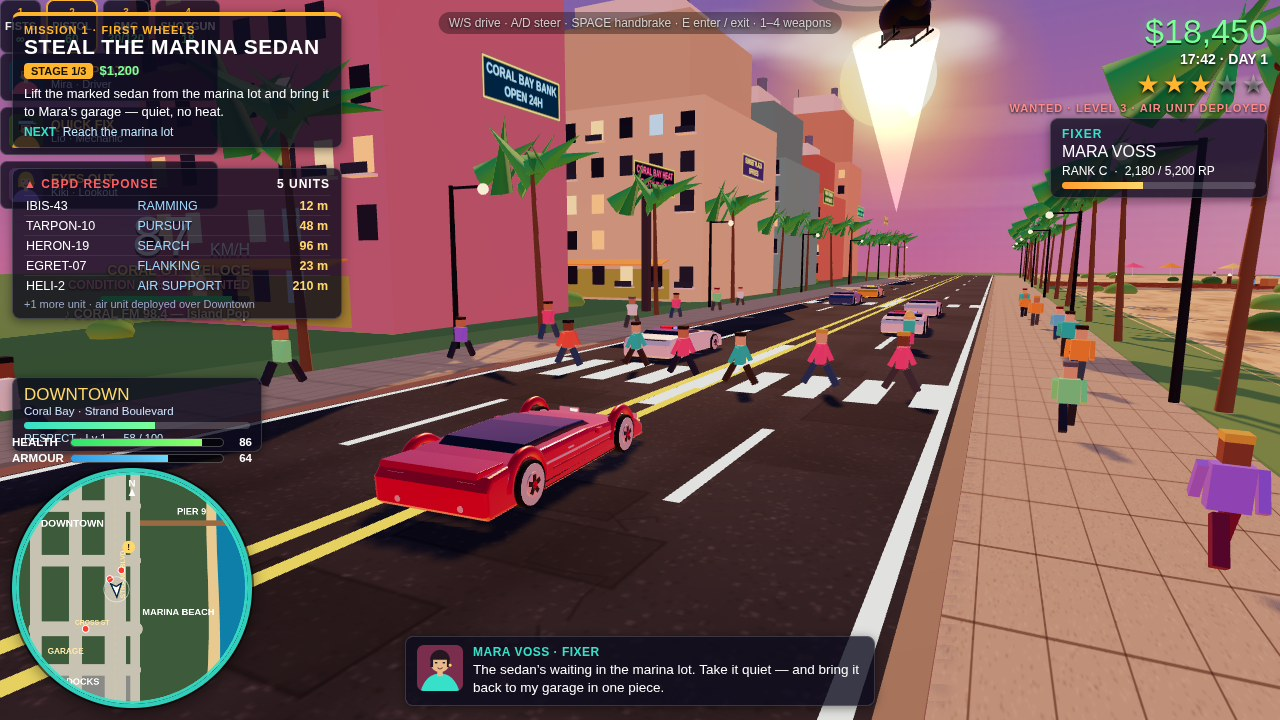
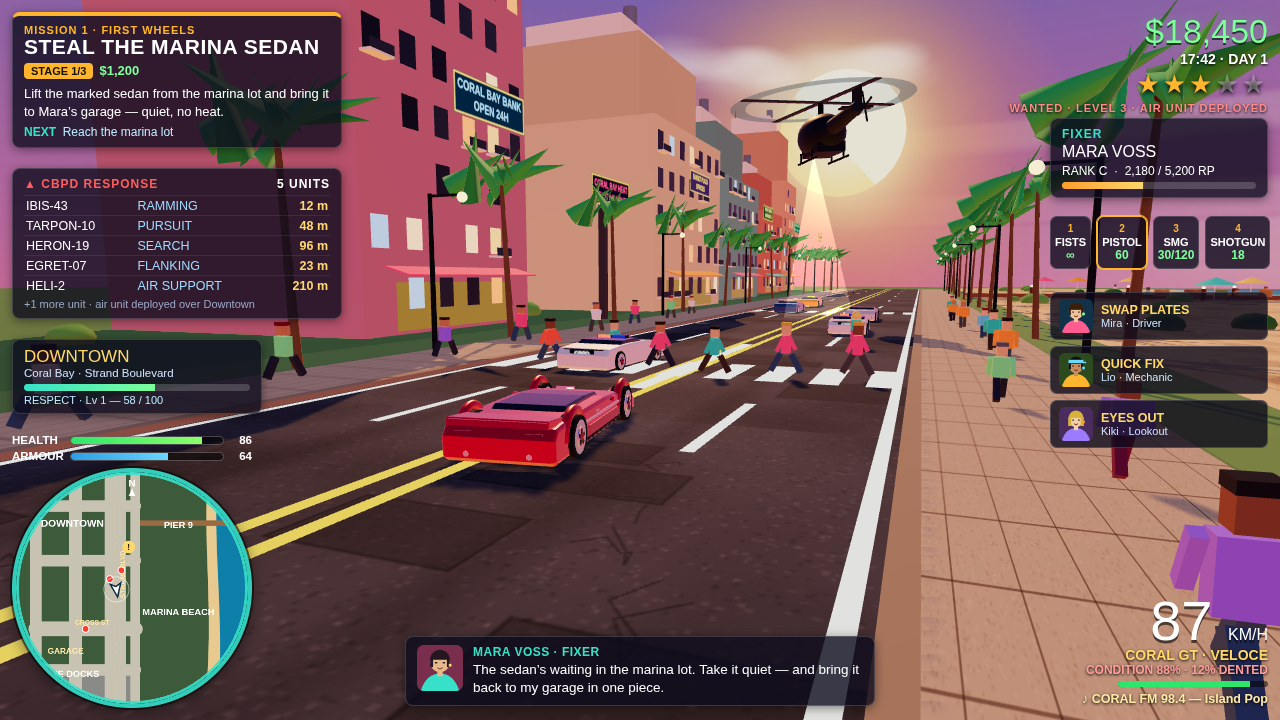
Phase 1 v2: HUD layout fix, heli cone, sun, building faces, car v2

diff --git a/game/src/cars.js b/game/src/cars.js
@@ -54,17 +54,11 @@ function makeWheel(radius = 0.36, width = 0.30) {
   tread.rotation.z = Math.PI / 2;
   g.add(tread);
   for (const side of [-1, 1]) {
-    // thin light sidewall ring — a line, not a white disc, so the tyre reads
-    const ring = new THREE.Mesh(new THREE.CylinderGeometry(radius * 0.78, radius * 0.78, 0.02, 24), MAT.sidewall);
-    ring.rotation.z = Math.PI / 2;
-    ring.position.x = side * (width / 2 + 0.005);
+    // thin light sidewall RING — a line, not a white disc, so the tyre reads
+    const ring = new THREE.Mesh(new THREE.RingGeometry(radius * 0.60, radius * 0.78, 24), MAT.sidewall);
+    ring.rotation.y = Math.PI / 2;
+    ring.position.x = side * (width / 2 + 0.016);
     g.add(ring);
-    // dark outer ring keeps the tyre face dark around the hub
-    const outer = new THREE.Mesh(new THREE.RingGeometry(radius * 0.78, radius * 0.97, 24),
-      new THREE.MeshBasicMaterial({ color: 0x1e2024, side: THREE.DoubleSide }));
-    outer.rotation.y = Math.PI / 2;
-    outer.position.x = side * (width / 2 + 0.016);
-    g.add(outer);
     const hub = new THREE.Mesh(new THREE.CylinderGeometry(radius * 0.46, radius * 0.46, 0.035, 20), MAT.hub);
     hub.rotation.z = Math.PI / 2;
     hub.position.x = side * (width / 2 + 0.012);
@@ -97,69 +91,76 @@ export function makeHeroCar() {
   const redDark = new THREE.MeshPhysicalMaterial({
     color: 0x9e141b, metalness: 0.5, roughness: 0.32, clearcoat: 0.8,
   });
-  // lower body — curved profile, bevelled edges read as shaped metal
+  // lower body — curved profile, bevelled edges read as shaped metal.
+  // NOTE: the extrude bevel expands the outline by ~bevelSize, so every
+  // surface-mounted detail (lights, decals, louvres) must sit OUTSIDE
+  // shape + bevel, or it is buried inside the body.
   const bodyPts = [
-    [-2.55, 0.20], [-2.57, 0.50], [-2.46, 0.62], [-1.95, 0.66], [-1.05, 0.68],
+    [-2.55, 0.20], [-2.57, 0.50], [-2.46, 0.70], [-1.95, 0.70], [-1.05, 0.70],
     [0.30, 0.68], [1.45, 0.60], [2.30, 0.44], [2.55, 0.30], [2.56, 0.18],
     [-2.50, 0.16],
   ];
   car.add(extrudedBody(bodyPts, 1.82, red, 0.08));
-  // glasshouse — glossy black, narrower and lower so the body reads first
+  // glasshouse — glossy dark glass, narrower and shorter so the body reads first
   const glassPts = [
-    [-1.62, 0.60], [-1.22, 0.78], [-0.15, 0.79], [0.50, 0.76], [0.88, 0.62],
-    [-1.48, 0.58],
+    [-1.45, 0.60], [-1.10, 0.78], [-0.15, 0.79], [0.45, 0.76], [0.78, 0.62],
+    [-1.32, 0.58],
   ];
-  car.add(extrudedBody(glassPts, 1.30, MAT.glass, 0.05));
+  car.add(extrudedBody(glassPts, 1.24, MAT.glass, 0.05));
   // roof spine highlight (thin body-colour strip over the glasshouse crown)
-  const spine = box(0.10, 0.03, 1.05, red, 0, 0.795, 0.5);
+  const spine = box(0.10, 0.03, 1.0, red, 0, 0.795, 0.45);
   car.add(spine);
   // ---- rear deck: louvres, spoiler, taillights ----
   // deck louvres: 5 bright slats per side, angled, read from 3/4 rear
   const louvreMat = new THREE.MeshStandardMaterial({ color: 0xf2f4f6, roughness: 0.2, metalness: 1.0 });
   for (const side of [-1, 1]) {
     for (let i = 0; i < 5; i++) {
-      const lv = box(0.42, 0.03, 0.10, louvreMat, side * 0.55, 0.67 + i * 0.004, 1.88 + i * 0.125);
+      const lv = box(0.50, 0.04, 0.13, louvreMat, side * 0.55, 0.715 + i * 0.004, 1.86 + i * 0.13);
       lv.rotation.x = -0.12;
       car.add(lv);
     }
   }
-  // low sleek body-coloured spoiler (NOT a heavy black wing), chrome lip
+  // low sleek body-coloured spoiler (NOT a heavy black wing), chrome lip,
+  // with a dark gap line under it so it reads as a separate wing
+  car.add(box(1.66, 0.025, 0.10, MAT.blackTrim, 0, 0.695, 2.36));
   const spoiler = extrudedBody(
-    [[-0.32, 0.00], [0.30, 0.00], [0.32, 0.09], [-0.30, 0.10]], 1.74, red, 0.02);
-  spoiler.position.set(0, 0.70, 2.30);
+    [[-0.32, 0.00], [0.30, 0.00], [0.32, 0.12], [-0.30, 0.13]], 1.74, red, 0.02);
+  spoiler.position.set(0, 0.71, 2.38);
   spoiler.rotation.x = -0.06;
   car.add(spoiler);
-  car.add(box(1.70, 0.025, 0.03, MAT.chrome, 0, 0.80, 2.60));
+  car.add(box(1.70, 0.03, 0.03, MAT.chrome, 0, 0.835, 2.68));
   for (const side of [-1, 1]) {
     car.add(box(0.06, 0.10, 0.10, redDark, side * 0.62, 0.66, 2.30));
   }
-  // full-width taillight bar + clusters
-  car.add(box(1.62, 0.10, 0.04, MAT.tailRed, 0, 0.52, 2.565));
+  // full-width taillight bar + clusters (proud of the bevelled rear face)
+  car.add(box(1.62, 0.10, 0.04, MAT.tailRed, 0, 0.52, 2.645));
   for (const side of [-1, 1]) {
-    car.add(box(0.34, 0.10, 0.03, MAT.tailRed, side * 0.62, 0.50, 2.57));
-    car.add(box(0.30, 0.05, 0.02, MAT.chrome, side * 0.62, 0.585, 2.56));
+    car.add(box(0.34, 0.10, 0.03, MAT.tailRed, side * 0.62, 0.50, 2.65));
+    car.add(box(0.30, 0.05, 0.02, MAT.chrome, side * 0.62, 0.585, 2.64));
   }
   // rear diffuser + twin exhausts
-  car.add(box(1.5, 0.10, 0.06, MAT.blackTrim, 0, 0.20, 2.56));
+  car.add(box(1.5, 0.10, 0.06, MAT.blackTrim, 0, 0.20, 2.64));
   for (const side of [-1, 1]) {
-    const ex = new THREE.Mesh(new THREE.CylinderGeometry(0.05, 0.055, 0.10, 12), MAT.chrome);
+    const ex = new THREE.Mesh(new THREE.CylinderGeometry(0.05, 0.055, 0.12, 12), MAT.chrome);
     ex.rotation.x = Math.PI / 2;
-    ex.position.set(side * 0.55, 0.24, 2.58);
+    ex.position.set(side * 0.55, 0.24, 2.66);
     car.add(ex);
   }
-  // ---- front: headlights, intake, splitter ----
+  // ---- front: headlights, intake, splitter (proud of the bevelled nose) ----
   for (const side of [-1, 1]) {
-    const hl = box(0.42, 0.06, 0.05, MAT.headWhite, side * 0.66, 0.50, -2.545);
+    const hl = box(0.42, 0.06, 0.05, MAT.headWhite, side * 0.66, 0.50, -2.645);
     hl.rotation.y = side * 0.18;
     car.add(hl);
-    car.add(box(0.46, 0.10, 0.03, MAT.chrome, side * 0.66, 0.50, -2.53));
-    car.add(box(0.16, 0.05, 0.03, MAT.amber, side * 0.88, 0.42, -2.52));
+    car.add(box(0.46, 0.10, 0.03, MAT.chrome, side * 0.66, 0.50, -2.63));
+    car.add(box(0.16, 0.05, 0.03, MAT.amber, side * 0.88, 0.42, -2.62));
   }
-  car.add(box(1.30, 0.14, 0.05, MAT.blackTrim, 0, 0.24, -2.56)); // intake
-  car.add(box(1.70, 0.05, 0.16, MAT.blackTrim, 0, 0.15, -2.52)); // splitter
+  car.add(box(1.30, 0.14, 0.05, MAT.blackTrim, 0, 0.24, -2.65)); // intake
+  car.add(box(1.70, 0.05, 0.16, MAT.blackTrim, 0, 0.15, -2.62)); // splitter
   // ---- flank crease / character line + lower skirt (side must not read slab) ----
+  // bright silver strip with a little self-light so it reads in any light
+  const creaseMat = new THREE.MeshStandardMaterial({ color: 0xf4f6f8, roughness: 0.25, metalness: 0.9, emissive: 0x555555, emissiveIntensity: 0.5 });
   for (const side of [-1, 1]) {
-    const crease = box(0.05, 0.045, 2.9, MAT.chrome, side * 1.0, 0.52, -0.1);
+    const crease = box(0.06, 0.055, 2.9, creaseMat, side * 1.005, 0.52, -0.1);
     car.add(crease);
     const crease2 = box(0.04, 0.035, 2.2, redDark, side * 0.995, 0.40, -0.2);
     car.add(crease2);
@@ -172,13 +173,14 @@ export function makeHeroCar() {
     car.add(stalk);
     car.add(box(0.06, 0.09, 0.14, red, side * 1.06, 0.68, -0.55));
   }
-  // ---- flared wheel arches (half-torus, body colour) ----
-  const archGeo = new THREE.TorusGeometry(0.47, 0.085, 10, 22, Math.PI);
+  // ---- flared wheel arches: flattened half-torus hugging the wheel, so the
+  // top of the arch stays at the deck line and never pokes up like ears ----
+  const archGeo = new THREE.TorusGeometry(0.40, 0.06, 10, 22, Math.PI);
   for (const [x, z] of [[-0.95, -1.62], [0.95, -1.62], [-0.95, 1.62], [0.95, 1.62]]) {
     const arch = new THREE.Mesh(archGeo, red);
     arch.rotation.y = Math.PI / 2;
-    arch.rotation.x = 0;
-    arch.position.set(x, 0.38, z);
+    arch.scale.set(1, 0.82, 1);
+    arch.position.set(x, 0.34, z);
     arch.castShadow = true;
     car.add(arch);
   }
@@ -186,8 +188,8 @@ export function makeHeroCar() {
   car.userData.wheels = [];
   car.userData.steer = [];
   for (const [x, z, front] of [[-0.92, -1.62, true], [0.92, -1.62, true], [-0.92, 1.62, false], [0.92, 1.62, false]]) {
-    const w = makeWheel(0.38, 0.30);
-    w.position.set(x, 0.38, z);
+    const w = makeWheel(0.34, 0.30);
+    w.position.set(x, 0.34, z);
     car.add(w);
     car.userData.wheels.push(w);
     if (front) car.userData.steer.push(w);
@@ -226,37 +228,42 @@ function makeSedan({ color = 0x8899aa, taxi = false, police = false } = {}) {
     [-1.35, 0.72], [-0.95, 0.92], [0.15, 0.93], [0.75, 0.74], [-1.15, 0.70],
   ];
   car.add(extrudedBody(glassPts, 1.55, MAT.glass, 0.04));
-  // lights
-  car.add(box(1.6, 0.08, 0.04, MAT.tailRed, 0, 0.55, 2.325));
+  // lights (proud of the bevelled faces: body rear is 2.32 + bevel 0.054)
+  car.add(box(1.6, 0.08, 0.04, MAT.tailRed, 0, 0.55, 2.39));
   for (const side of [-1, 1]) {
-    car.add(box(0.34, 0.07, 0.04, MAT.headWhite, side * 0.62, 0.52, -2.325));
+    car.add(box(0.34, 0.07, 0.04, MAT.headWhite, side * 0.62, 0.52, -2.39));
   }
-  car.add(box(1.2, 0.12, 0.05, MAT.blackTrim, 0, 0.26, -2.33));
+  car.add(box(1.2, 0.12, 0.05, MAT.blackTrim, 0, 0.26, -2.40));
   if (police) {
-    // black hood + trunk, CBPD doors, light bar
-    car.add(box(1.5, 0.03, 0.95, black, 0, 0.72, -1.55)); // hood
-    car.add(box(1.5, 0.03, 0.75, black, 0, 0.74, 1.85)); // trunk
+    // black hood + trunk, CBPD doors, light bar (panels sit above the deck)
+    car.add(box(1.5, 0.03, 0.95, black, 0, 0.795, -1.55)); // hood
+    car.add(box(1.5, 0.03, 0.75, black, 0, 0.775, 1.85)); // trunk
     const doorTex = textTexture('CBPD', '#0d2b45');
     for (const side of [-1, 1]) {
       const decal = new THREE.Mesh(new THREE.PlaneGeometry(0.85, 0.32),
         new THREE.MeshBasicMaterial({ map: doorTex, transparent: true }));
-      decal.position.set(side * 0.925, 0.48, 0.15);
+      decal.position.set(side * 0.955, 0.48, 0.15);
       decal.rotation.y = side * Math.PI / 2;
       car.add(decal);
       const num = new THREE.Mesh(new THREE.PlaneGeometry(0.5, 0.2),
         new THREE.MeshBasicMaterial({ map: textTexture('43', '#0d2b45'), transparent: true }));
-      num.position.set(side * 0.925, 0.48, -0.75);
+      num.position.set(side * 0.955, 0.48, -0.75);
       num.rotation.y = side * Math.PI / 2;
       car.add(num);
     }
-    const bar = box(1.1, 0.09, 0.28, MAT.blackTrim, 0, 0.99, 0.1);
+    const bar = box(1.1, 0.13, 0.30, MAT.blackTrim, 0, 1.0, 0.1);
     car.add(bar);
-    const redL = box(0.5, 0.08, 0.3, new THREE.MeshStandardMaterial({ color: 0xcc1122, emissive: 0xff2233, emissiveIntensity: 2.2 }), -0.28, 1.0, 0.1);
-    const blueL = box(0.5, 0.08, 0.3, new THREE.MeshStandardMaterial({ color: 0x2244cc, emissive: 0x3355ff, emissiveIntensity: 2.2 }), 0.28, 1.0, 0.1);
+    const redL = box(0.5, 0.11, 0.32, new THREE.MeshStandardMaterial({ color: 0xcc1122, emissive: 0xff2233, emissiveIntensity: 2.2 }), -0.28, 1.01, 0.1);
+    const blueL = box(0.5, 0.11, 0.32, new THREE.MeshStandardMaterial({ color: 0x2244cc, emissive: 0x3355ff, emissiveIntensity: 2.2 }), 0.28, 1.01, 0.1);
     car.add(redL); car.add(blueL);
     car.userData.lightBar = [redL, blueL];
+    // rear CBPD marking on the trunk — reads as police from behind
+    const rearMark = new THREE.Mesh(new THREE.PlaneGeometry(0.9, 0.3),
+      new THREE.MeshBasicMaterial({ map: textTexture('CBPD', '#ffffff', '#14161c', 'bold 56px Arial') }));
+    rearMark.position.set(0, 0.62, 2.40);
+    car.add(rearMark);
     // push bar
-    car.add(box(1.4, 0.12, 0.08, MAT.blackTrim, 0, 0.32, -2.36));
+    car.add(box(1.4, 0.12, 0.08, MAT.blackTrim, 0, 0.32, -2.42));
   }
   if (taxi) {
     car.add(box(0.7, 0.16, 0.35, new THREE.MeshStandardMaterial({ color: 0x111111, emissive: 0xffc832, emissiveIntensity: 0.7 }), 0, 1.02, 0.1));

diff --git a/game/src/hud.js b/game/src/hud.js
@@ -78,8 +78,8 @@ export function drawMinimap(ctx, px, pz, prot, opts = {}) {
   ctx.fillText('DOWNTOWN', X(-26), Z(-90));
   ctx.font = 'bold 19px Arial';
   ctx.fillText('MARINA BEACH', X(38), Z(40));
-  ctx.fillText('PIER 9', X(46), Z(-100));
-  ctx.fillText('THE DOCKS', X(-26), Z(136));
+  ctx.fillText('PIER 9', X(38), Z(-88));
+  ctx.fillText('THE DOCKS', X(-26), Z(130));
   ctx.font = 'bold 17px Arial';
   ctx.fillStyle = '#ffe9a8';
   ctx.fillText('GARAGE', X(-30), Z(96));

diff --git a/game/src/shots.js b/game/src/shots.js
@@ -6,10 +6,10 @@
 // Docks: gantry crane, containers, sun disc + heli in frame.
 export const SHOTS = {
   cover: {
-    cam: [8.4, 2.7, 10.2],
-    look: [0.8, 0.9, -8],
+    cam: [9.8, 2.8, 11.5],
+    look: [0, 0.85, -2.5],
     hero: [0.6, 0, 2],
-    heroRot: 0.28,
+    heroRot: 0.35,
     heli: [0.5, 13.5, -38],
     wanted: 3,
     fov: 55,

diff --git a/game/src/heli.js b/game/src/heli.js
@@ -98,7 +98,7 @@ export function makeHelicopter() {
   const blurRing = new THREE.Mesh(
     new THREE.RingGeometry(3.9, 4.7, 40),
     new THREE.MeshBasicMaterial({
-      color: 0x30363f, transparent: true, opacity: 0.30,
+      color: 0x30363f, transparent: true, opacity: 0.22,
       side: THREE.DoubleSide, depthWrite: false,
     }),
   );

diff --git a/game/src/world.js b/game/src/world.js
@@ -517,7 +517,7 @@ export function buildCity(scene) {
   refs.hero = hero;
 
   const police1 = makePoliceCar();
-  police1.position.set(-3.2, 0, -10);
+  police1.position.set(-2.8, 0, -8.5);
   police1.rotation.y = -0.05;
   scene.add(police1);
   refs.traffic.push(police1);
